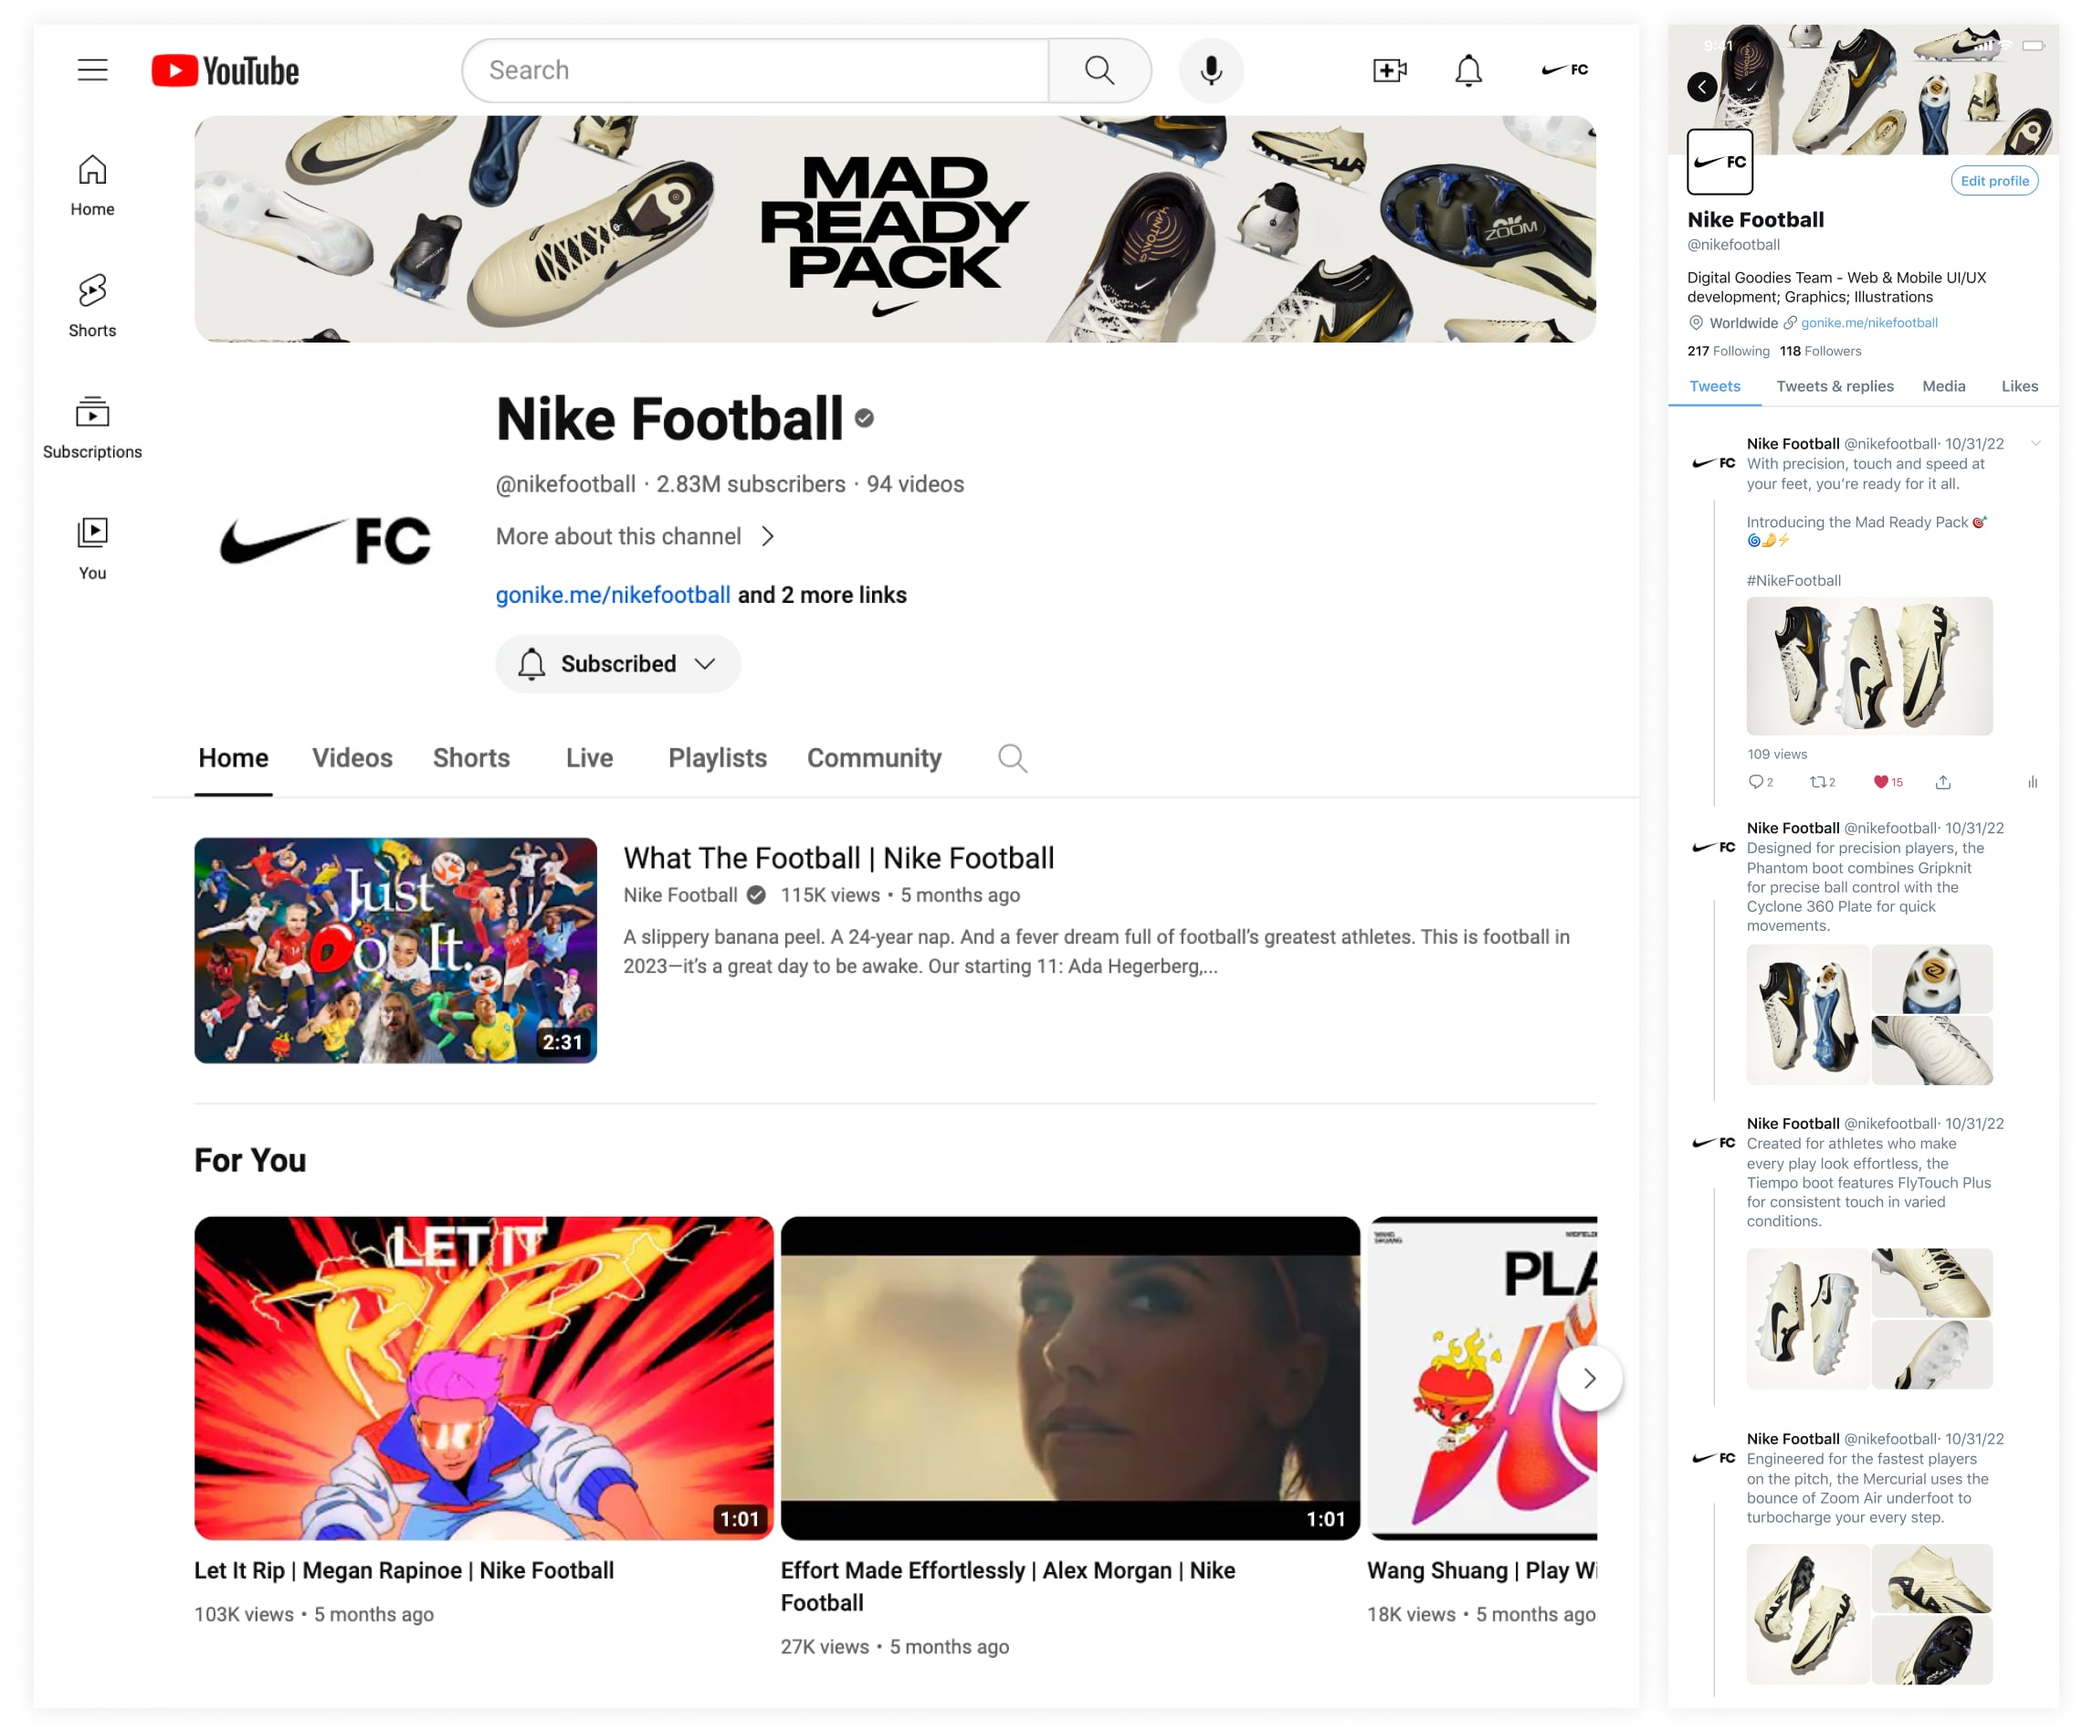
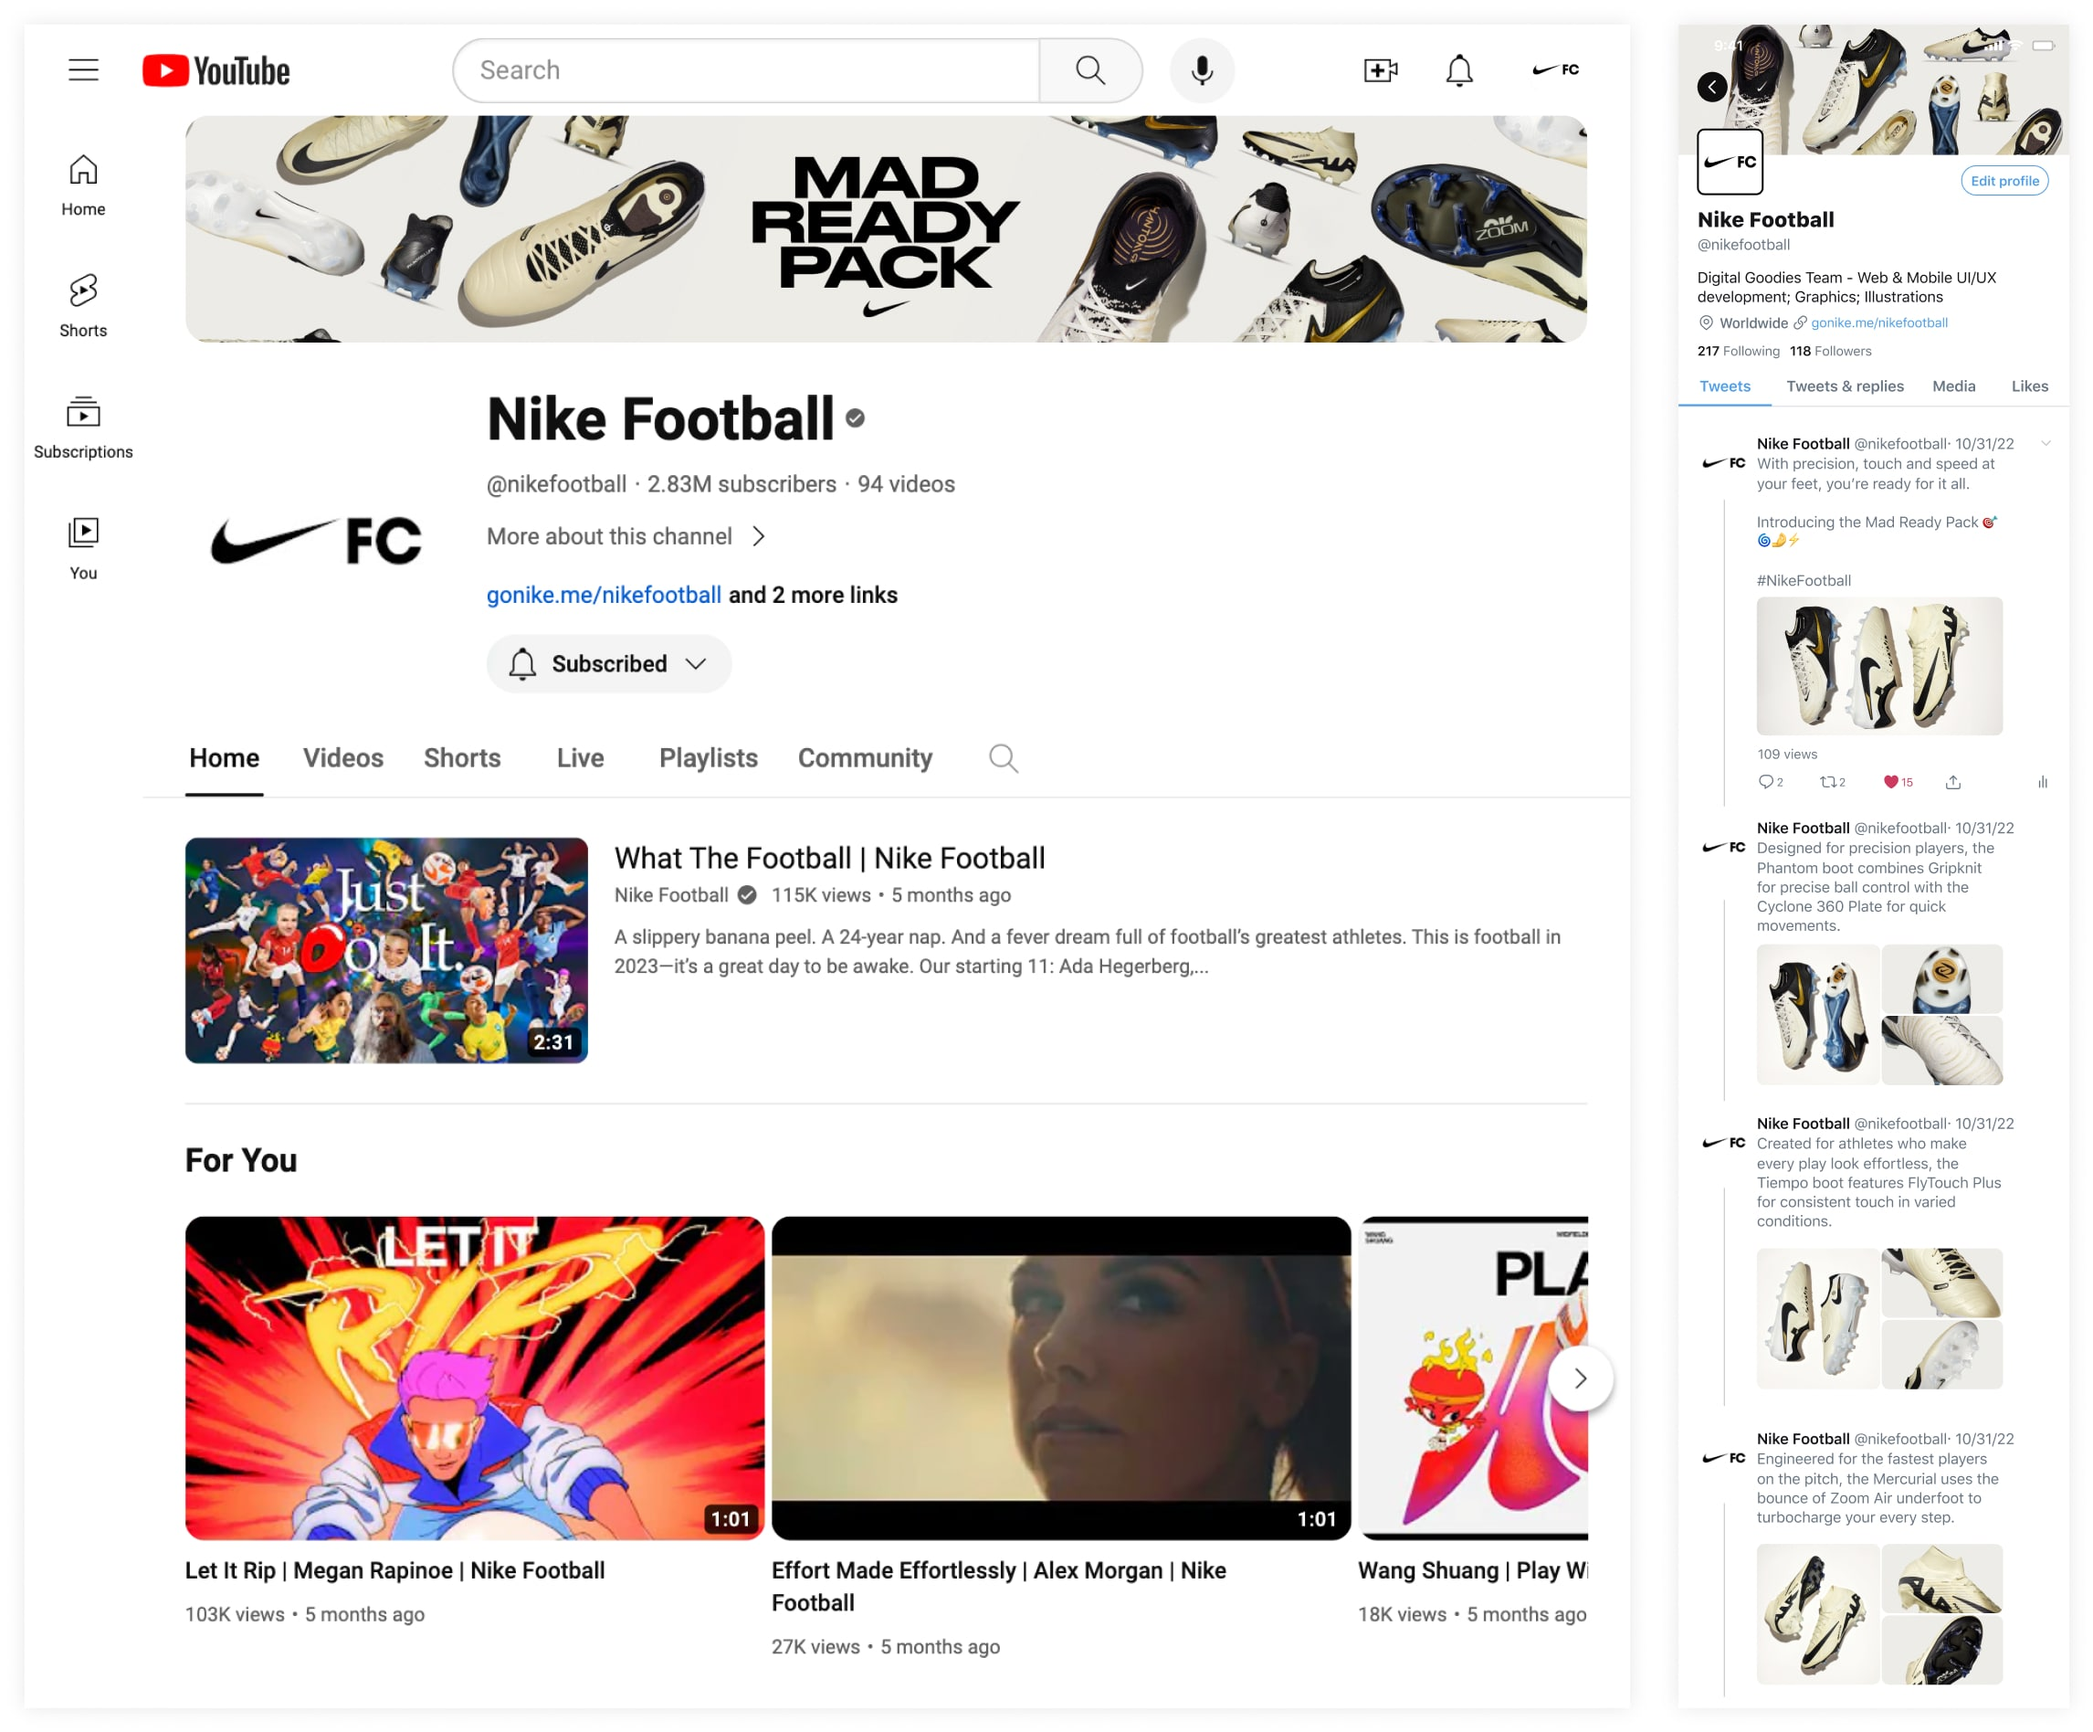
removed type overlay on hero image for desktop, adjusted spacing for YT and X section

diff --git a/madready.html b/madready.html
@@ -51,7 +51,7 @@
     <a id="top" class="anchor" name="top"></a>
     <section class="animated fadeInDown hero-content">
       <div class = "desktop_only">
-        <img src="images/madready/MRP_Hero_D.jpg" alt="Nike Mad Ready Pack"></img>
+        <img src="images/madready/MRP_Hero_D-min.jpg" alt="Nike Mad Ready Pack"></img>
       </div>
       <div class = "mobile_only">
         <img src="images/madready/MRP_Hero_M.jpg" alt="Nike Mad Ready Pack"></img>
